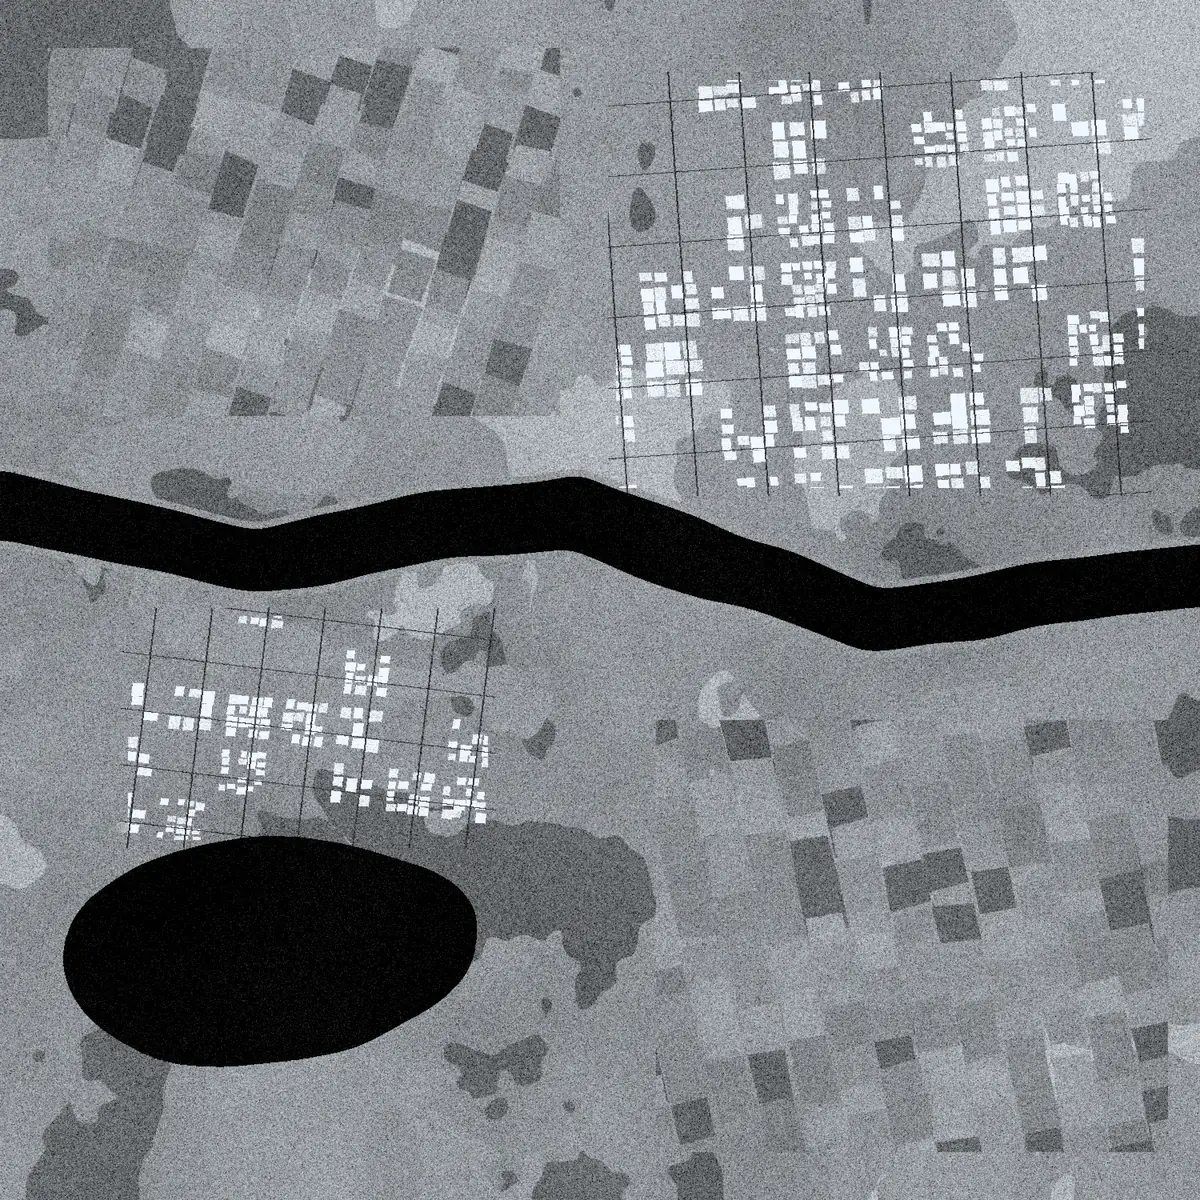
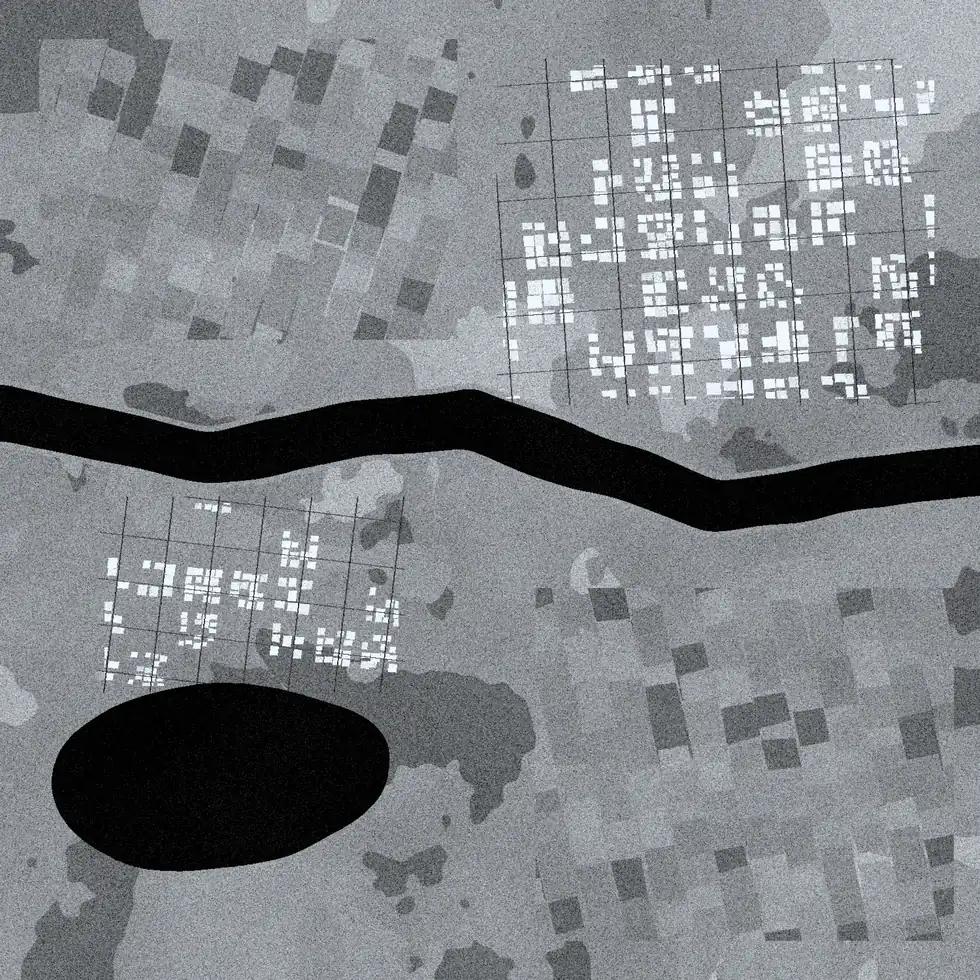
Add deployment guide, judge brief, and trim imagery further
- DEPLOY.md: GitHub push, Vercel deploy, and Google OAuth setup with the
  exact redirect URIs and environment variables.
- docs/judge-brief.md: pitch, a mapping from the site to every mandatory
  requirement in the problem statement, a timed demo script, anticipated
  questions, and the gaps to be honest about.
- Hero poster, SAR fallback and cross-modal SAR re-encoded at the sizes they
  actually display: 1.1 MB -> 766 kB.

diff --git a/scripts/build_imagery.py b/scripts/build_imagery.py
@@ -75,9 +75,9 @@ def build_hero():
     sc.fields((1500, 980, 2540, 1420), n=16, angle=-0.35)
     sc.road_grid((1380, 300, 2100, 800), spacing=104, angle=0.14, width=2)
     sc.urban((1400, 320, 2080, 780), density=0.5, spacing=104, angle=0.14, high=0.22)
-    save(render_optical(sc, haze=0.055, sun=0.62), OUT / "hero-scene.webp", 74,
-         size=(1600, 900))
-    save(render_sar(sc), OUT / "hero-sar.webp", 62, size=(1100, 619))
+    save(render_optical(sc, haze=0.055, sun=0.62), OUT / "hero-scene.webp", 58,
+         size=(1000, 563))
+    save(render_sar(sc), OUT / "hero-sar.webp", 40, size=(620, 349))
 
 
 # ------------------------------------------------- 2. bi-temporal urban pair
@@ -170,7 +170,7 @@ def build_crossmodal():
              high=0.16, seed_shift=11)
 
     save(render_optical(sc), OUT / "cross-optical.webp", 78, size=(1200, 1200))
-    save(render_sar(sc), OUT / "cross-sar.webp", 68, size=(1200, 1200))
+    save(render_sar(sc), OUT / "cross-sar.webp", 52, size=(980, 980))
 
     lab = sc.labels
     built, water = is_built(lab), lab == WATER

diff --git a/docs/judge-brief.md b/docs/judge-brief.md
@@ -1,0 +1,138 @@
+# Judge brief — SatQuery AI (PS 26167)
+
+Internal prep. Not linked from the site.
+
+---
+
+## The 60-second pitch
+
+> Remote-sensing AI today ships as isolated single-task tools. To get an answer
+> you need to know which sensor you're looking at, which model fits the question,
+> how to pre-process the imagery, and how to read the raster that comes back.
+> That's a specialist's job, and it takes about a day per scene.
+>
+> SatQuery replaces that with a question. You give it an image — or an
+> optical–SAR pair, or two dates of the same ground — and ask in plain language.
+> An agent classifies the task, validates that your inputs can actually support
+> it, picks the right specialist models from a registry, runs them, and returns
+> an answer bound to the evidence it came from, with a confidence score and an
+> auditable trace of exactly what ran.
+>
+> The novelty isn't the language model. It's that the query decides the pipeline.
+
+---
+
+## Mapping to the mandatory functional scope
+
+Have this ready — judges score against the problem statement, not the pitch.
+
+| PS requirement | Where it lands |
+| --- | --- |
+| Remote-sensing adaptation (BigEarthNet.txt or open data) | LoRA adapters on a small VLM backbone; RS encoders (RemoteCLIP / GeoChat-class) |
+| Single-image VQA — **mandatory** | Task family 1, the baseline every query path falls back to |
+| One additional single-image task | Both: captioning/scene description **and** text-guided grounding |
+| Multi-image change analysis — **mandatory** | Change VQA + spatial change map from a bi-temporal pair |
+| Cross-modal pair analysis | Optical–SAR joint extraction with co-registration validation |
+| Agentic orchestration | Controller: task classification → input validation → tool planning → parameter binding → fusion |
+| Auditable execution summary | Every response carries `{ task, tools, params, confidence }` |
+| Interactive GUI / web application | The demo section; the workspace mockup shows the intended full product |
+| Visual evidence + confidence | Masks, boxes and area statistics attached to every answer |
+| Downloadable reports | PDF + GeoJSON export in the intended build |
+
+**The one sentence that matters:** *"A generic LLM or VLM without remote-sensing
+adaptation will not satisfy the requirements"* — this is in the PS. Lead with the
+adaptation and the specialist registry, not the chat interface.
+
+---
+
+## Demo script (3 minutes)
+
+1. **Hero, 10s.** "Ask Earth. Get intelligence." Don't linger.
+2. **Workspace mockup, 20s.** "This is the product surface — scene library,
+   query history, and the grounded result." Establishes it's a real application,
+   not a chatbot.
+3. **Problem section, 20s.** Walk the stack: image + sensor + model + workflow +
+   parameters = complexity. Then the collapse to natural language.
+4. **Agent pipeline, 30s.** Hover two or three stages. Say explicitly: *"only the
+   observable trace is exposed — no chain-of-thought, which is what the PS asks
+   for."*
+5. **Multimodal, 25s.** Toggle Optical → SAR → Combined. The line to use:
+   *"SAR separates built-up from bare soil, which look alike spectrally. That's
+   the question a single optical image cannot answer."*
+6. **Temporal, 30s.** Drag the slider. Hit **Reveal change**. Let the regions
+   animate in. This is the strongest visual moment — pause here.
+7. **Demo, 45s.** Pick *Urban Expansion* → **Analyze**. Let the trace run. Read
+   the answer and point at the confidence and the tool list.
+8. **Close, 10s.** "Every number on this page is measured off the imagery shown.
+   The analysis is pre-computed for the preview — the pipeline behind it is what
+   we're building."
+
+Then offer `/business` if the panel asks about scale or sustainability.
+
+---
+
+## Questions you will get
+
+**"How is this different from just uploading an image to GPT-4V / Gemini?"**
+Three ways. First, adaptation: a general VLM has not learned sensor terminology,
+polarisation, or backscatter behaviour — it will describe a SAR image as a
+black-and-white photograph. Second, task routing: change detection over a
+bi-temporal pair is a different model, not a longer prompt. Third, evidence: we
+return the mask and the statistic the claim rests on, and abstain below a
+confidence gate. A general model produces fluent text with nothing behind it.
+
+**"What if the model hallucinates?"**
+Confidence gating with an explicit abstain path. Every claim is bound to a mask,
+box or band statistic the operator can inspect. On mis-registered or wrong-modality
+input the system refuses and explains rather than answering — the input validator
+runs before any model does.
+
+**"Cartosat and RISAT differ from Sentinel. Will it transfer?"**
+That's the main domain-gap risk and we've scoped for it: radiometric
+normalisation, resample to a fixed GSD, a thin band-adapter layer, and test-time
+augmentation. The adapter-per-sensor architecture is exactly why this is a
+training run rather than a rebuild.
+
+**"Can you actually train this?"**
+We're not training from scratch. Open-weight RS encoders plus a 2–7B backbone,
+with LoRA on under 1% of parameters — roughly 25 GPU-hours per adapter on free
+T4/A100 sessions, and 4-bit inference on a single 16 GB GPU.
+
+**"Is the demo real?"**
+No, and we say so on the page. The imagery is procedurally generated synthetic
+reference data and the results are pre-computed. But the change masks, region
+geometry and area figures are measured from those generated scenes — so the
+numbers shown are consistent with the pixels, not invented. *(Be first to say
+this. Volunteering it reads as rigour; being caught reads as overclaiming.)*
+
+**"What's the business model?"** → `/business`. Open core, paid operation.
+The system stays self-hostable so it can run inside a government network without
+lock-in; revenue is sensor adaptation, on-premise support and integration.
+
+**"How big is the market?"** → National Geospatial Policy 2022 targets a
+₹1 lakh crore geospatial economy by 2030. Be careful to say which figures are
+published targets and which are our estimates — the page labels every one.
+
+---
+
+## Known gaps — answer honestly if asked
+
+- The AI backend is not implemented; this is the product and interface case.
+- Benchmark numbers are targets, not results. We have not run VRSBench, RSVQA or
+  CDVQA yet.
+- The pricing is indicative, for discussion.
+- No ISRO/SAC data has been used — the evaluation set is not disclosed to teams.
+
+Do not oversell any of these. A panel of ISRO scientists will find the seam, and
+being straight about scope is worth more than a claim you can't defend.
+
+---
+
+## Before you present
+
+- [ ] Load the site once so the hero video is cached
+- [ ] Run the demo end to end at least once
+- [ ] Have `/business` open in a second tab
+- [ ] Know your three numbers: **+55.3%** built-up change, **0.87** confidence,
+      **5 task families**
+- [ ] Decide who answers technical vs business questions

diff --git a/DEPLOY.md b/DEPLOY.md
@@ -1,0 +1,142 @@
+# Deploying SatQuery
+
+Everything below is ready to run. The build is verified locally — `npm run build`
+passes and all four routes render on the production server.
+
+---
+
+## 1. Push to GitHub
+
+The repository is initialised with two commits on `main`. It has no remote yet,
+because this machine has no GitHub credentials (`gh` is not installed and there
+is no token or credential helper configured).
+
+**Option A — with the GitHub CLI**
+
+```bash
+gh repo create satquery-ai --public --source=. --remote=origin --push
+```
+
+**Option B — create the repo in the browser, then**
+
+```bash
+git remote add origin https://github.com/<your-username>/satquery-ai.git
+git push -u origin main
+```
+
+Set your identity first if git prompts for it:
+
+```bash
+git config user.name "Your Name"
+git config user.email "you@example.com"
+```
+
+---
+
+## 2. Deploy to Vercel
+
+> **Note:** the Vercel CLI on this machine is currently logged out. Run
+> `vercel login` once to restore it.
+
+```bash
+vercel login
+```
+
+Then, from the project directory:
+
+```bash
+vercel --prod
+```
+
+Accept the defaults — Vercel auto-detects Next.js. `.vercelignore` already keeps
+`docs/`, `scripts/` and local tooling out of the upload.
+
+**Preferred, once the repo is on GitHub:** import it from the Vercel dashboard
+instead. Every push to `main` then redeploys automatically, which is what you
+want during a hackathon.
+
+Project settings that matter:
+
+| Setting | Value |
+| --- | --- |
+| Framework preset | Next.js (auto-detected) |
+| Build command | `npm run build` (default) |
+| Node version | 20.x or 22.x |
+| Root directory | repository root |
+
+---
+
+## 3. Enable Google sign-in (optional)
+
+The site deploys and runs fine without this. Until credentials are set,
+`/workspace` shows a setup panel rather than a sign-in button — it never errors.
+
+### Create the OAuth client
+
+1. Open <https://console.cloud.google.com/apis/credentials>
+2. **Create Credentials → OAuth client ID → Web application**
+3. **Authorised JavaScript origins**
+   ```
+   http://localhost:3000
+   https://<your-vercel-domain>
+   ```
+4. **Authorised redirect URIs**
+   ```
+   http://localhost:3000/api/auth/callback/google
+   https://<your-vercel-domain>/api/auth/callback/google
+   ```
+5. Copy the client ID and client secret.
+
+### Generate a session secret
+
+```bash
+npx auth secret
+```
+
+### Set the variables
+
+Locally, create `.env.local` (gitignored):
+
+```
+AUTH_GOOGLE_ID=<client id>
+AUTH_GOOGLE_SECRET=<client secret>
+AUTH_SECRET=<generated secret>
+```
+
+On Vercel: **Project → Settings → Environment Variables**, add the same three to
+Production and Preview, then redeploy.
+
+> Add the preview domain to the redirect URIs too, or sign-in will fail on
+> preview deployments while working in production.
+
+---
+
+## 4. After deploying
+
+- Open `/` and let the hero video load once; the poster frame covers the gap.
+- Open `/business` and confirm the market figures read correctly.
+- Open `/workspace` — it should show either the setup panel or a Google button.
+- Run the demo on `/#demo` end to end at least once before showing a judge.
+
+---
+
+## Verifying locally
+
+```bash
+npm install
+npm run dev            # http://localhost:3000
+npm run build && npm start   # production build, same as Vercel runs
+```
+
+Regenerate the satellite imagery (needs `numpy`, `opencv-python`, `Pillow`):
+
+```bash
+python scripts/build_imagery.py
+```
+
+Capture section screenshots for design review (dev server must be running):
+
+```bash
+npx playwright install chromium
+node scripts/screenshot.mjs ./shots 1440 900
+```

diff --git a/README.md b/README.md
@@ -8,6 +8,17 @@ The site communicates the product story — **ask → analyze → explain** — 
 judges, mentors and technical evaluators. The AI backend is not implemented;
 every analysis result shown is pre-computed to illustrate intended behaviour.
 
+## Pages
+
+| Route | What it is |
+| --- | --- |
+| `/` | The product showcase — story, capabilities, interactive demo, deployment tiers |
+| `/business` | Market sizing, unit economics, scaling, government alignment, roadmap |
+| `/workspace` | Google-gated account area; shows a setup panel until OAuth is configured |
+
+`DEPLOY.md` covers pushing to GitHub, deploying to Vercel, and enabling Google
+sign-in. `docs/judge-brief.md` has the demo script and anticipated questions.
+
 ## Run it
 
 ```bash
@@ -108,6 +119,14 @@ node scripts/screenshot.mjs ./shots 1440 900
 
 Requires the dev server running and `npx playwright install chromium`.
 
+## Authentication
+
+Google sign-in is wired with Auth.js v5 but **conditional**: if
+`AUTH_GOOGLE_ID`, `AUTH_GOOGLE_SECRET` and `AUTH_SECRET` are absent, the
+provider list is empty and `/workspace` renders a setup panel. The site builds,
+deploys and renders correctly with no credentials set — a showcase should never
+500 because an OAuth app has not been registered yet. See `.env.example`.
+
 ## Honesty notes
 
 The site is a prototype showcase and says so where it matters:
@@ -116,4 +135,9 @@ The site is a prototype showcase and says so where it matters:
 - demo results are labelled pre-computed, not production predictions;
 - the "Built for" section describes operational roles and the questions they
   ask — it contains no testimonials and no endorsements from real people or
-  organisations.
+  organisations;
+- on `/business`, every figure carries a basis tag: **published target**
+  (government policy or agency statement), **project target** (from the team's
+  own submission), or **team estimate** (a modelling assumption, not a forecast).
+  Verify the published figures against their primary source before citing them —
+  policy targets get revised.
